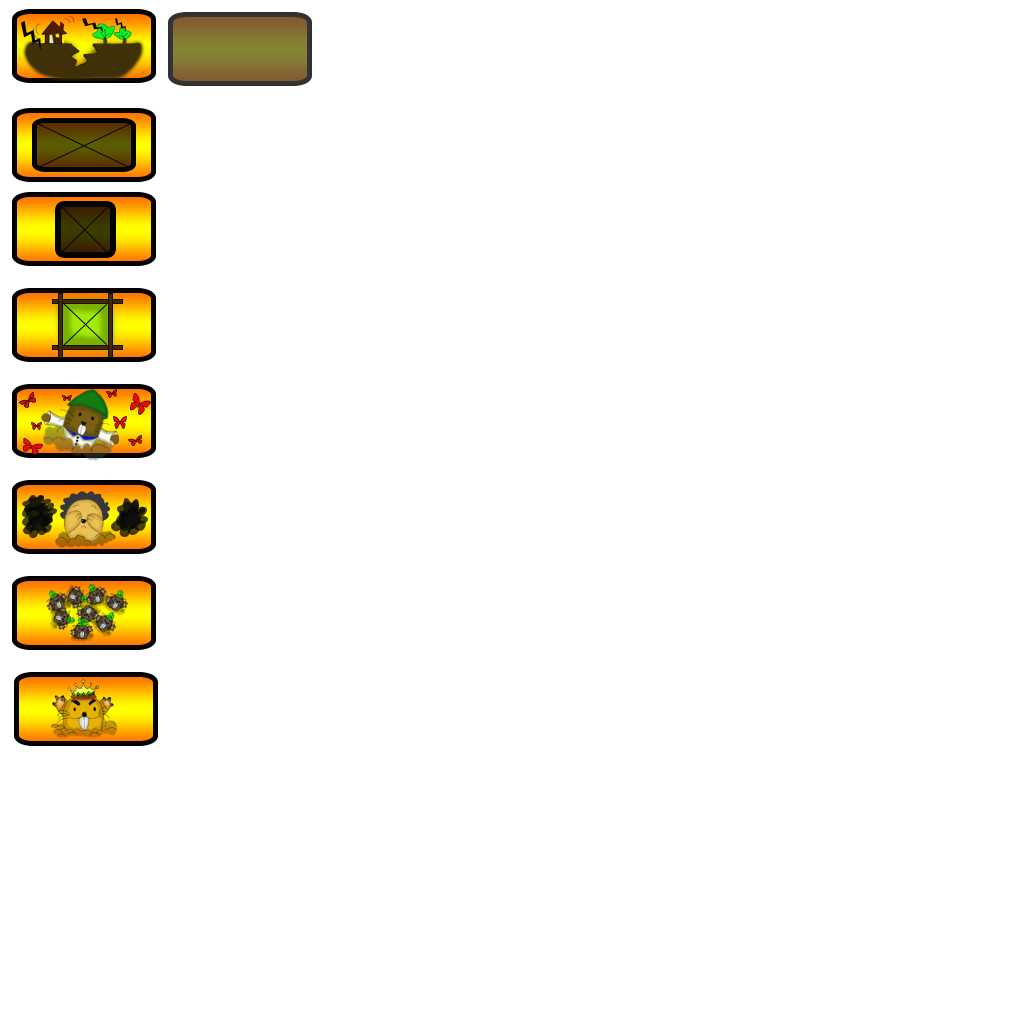
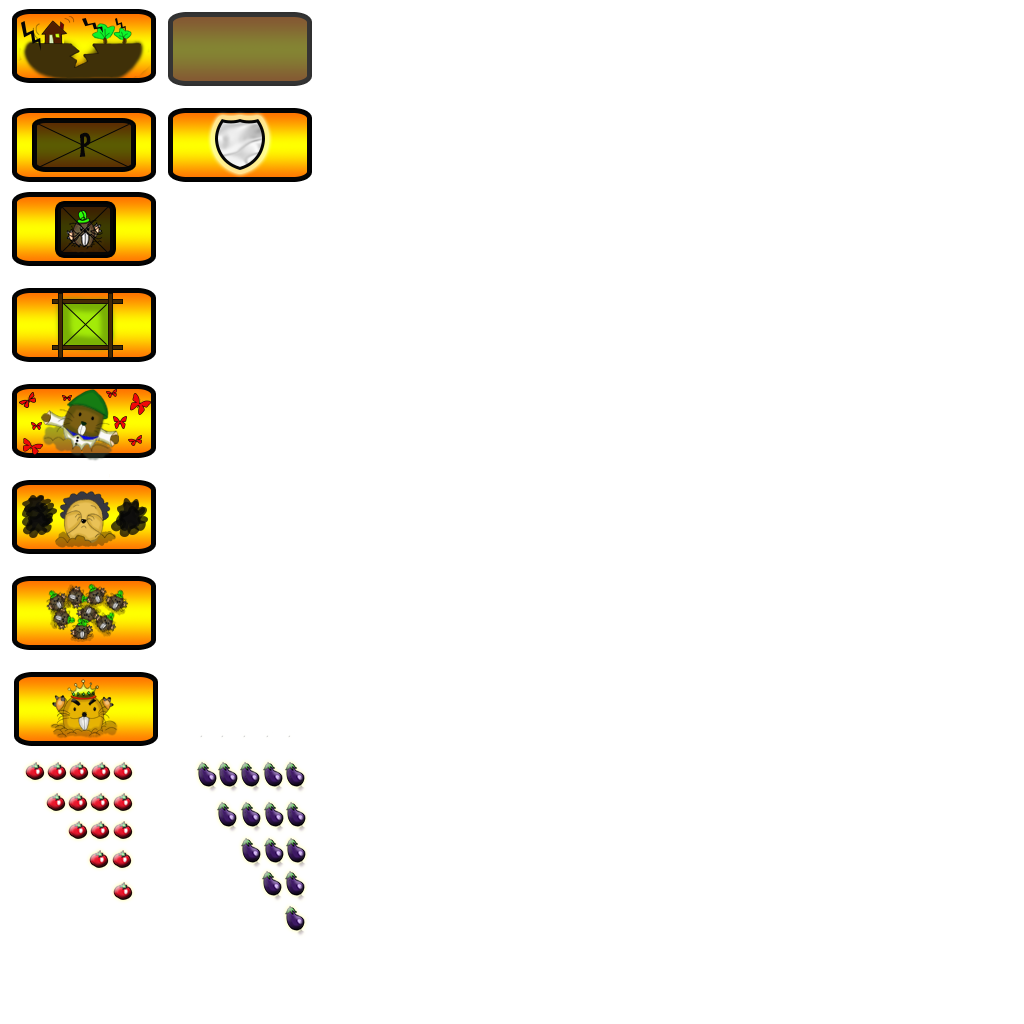
Added more graphics for PU effects
plus font and hp

diff --git a/MoleSayWhack/src/com/deny/GameWorld/GameRenderer.java b/MoleSayWhack/src/com/deny/GameWorld/GameRenderer.java
@@ -51,6 +51,43 @@ public class GameRenderer {
 
         batcher.draw(AssetLoader.gameBG, 0, 0, (int)(544*scaleW), (int)(816*scaleH));
         
+        // DRAW opponent hp
+       switch(world.getOpponentHP()){
+       case 1:
+    	   batcher.draw(AssetLoader.op1, (int)(10*scaleW), (int)(10*scaleH), (int)(30*scaleW), (int)(25*scaleH));
+    	   break;
+       case 2:
+    	   batcher.draw(AssetLoader.op2, (int)(10*scaleW), (int)(10*scaleH), (int)(47*scaleW), (int)(25*scaleH));
+    	   break;
+       case 3:
+    	   batcher.draw(AssetLoader.op3, (int)(10*scaleW), (int)(10*scaleH), (int)(72*scaleW), (int)(25*scaleH));
+    	   break;
+       case 4:
+    	   batcher.draw(AssetLoader.op4, (int)(10*scaleW), (int)(10*scaleH), (int)(98*scaleW), (int)(25*scaleH));
+    	   break;
+       case 5:
+    	   batcher.draw(AssetLoader.op5, (int)(10*scaleW), (int)(10*scaleH), (int)(112*scaleW), (int)(25*scaleH));
+    	   break;
+       }
+       //DRAW MYHP
+       switch(world.getPlayer().getHP()){
+       case 1:
+    	   batcher.draw(AssetLoader.mh1, (int)((544-123)*scaleW), (int)(10*scaleH), (int)(113*scaleW), (int)(20*scaleH));
+    	   break;
+       case 2:
+    	   batcher.draw(AssetLoader.mh2, (int)((544-123)*scaleW), (int)(10*scaleH), (int)(113*scaleW), (int)(20*scaleH));
+    	   break;
+       case 3:
+    	   batcher.draw(AssetLoader.mh3, (int)((544-123)*scaleW), (int)(10*scaleH), (int)(113*scaleW), (int)(20*scaleH));
+    	   break;
+       case 4:
+    	   batcher.draw(AssetLoader.mh4, (int)((544-123)*scaleW), (int)(10*scaleH), (int)(113*scaleW), (int)(20*scaleH));
+    	   break;
+       case 5:
+    	   batcher.draw(AssetLoader.mh5, (int)((544-123)*scaleW), (int)(10*scaleH), (int)(113*scaleW), (int)(20*scaleH));
+    	   break;
+
+       }
         // Draw MOLES
         for(Mole m : world.getMoleGrid()) {
         	if (m!= null) {
@@ -67,7 +104,21 @@ public class GameRenderer {
         		
         	}
         }
-
+        
+        //Draw POWERUPDEPLOYER
+        for (PowerUpDeployer pd: world.getPowerUpDeployers()) {
+        	if (pd!=null) {
+        		//shapeRenderer.setColor(pd.getPowerupType().getColor());
+        		Rectangle r = pd.getRectangle();
+        		if (pd.isAvailable()){
+        		batcher.draw(pd.getAsset(), r.x, r.y, r.width, r.height);}
+        		else{
+        			//cooldown
+        			batcher.draw(pd.getAsset(), r.x, r.y, r.width, r.height);
+        			batcher.draw(AssetLoader.cdown, r.x, r.y, r.width, r.height);
+        		}
+        	}
+        }
         
         batcher.end();
        
@@ -106,15 +157,7 @@ public class GameRenderer {
 	        	
 	        }
 
-        //Render PowerUps
-        shapeRenderer.begin(ShapeType.Filled);
-        for (PowerUpDeployer pd: world.getPowerUpDeployers()) {
-        	if (pd!=null) {
-        		shapeRenderer.setColor(pd.getPowerupType().getColor());
-        		shapeRenderer.rect(pd.getRectangle().x, pd.getRectangle().y,pd.getRectangle().width,pd.getRectangle().height);
-        	}
-        }
-        shapeRenderer.end();
+
 
         }
        

diff --git a/MoleSayWhack/src/com/deny/GameHelpers/AssetLoader.java b/MoleSayWhack/src/com/deny/GameHelpers/AssetLoader.java
@@ -14,21 +14,23 @@ import com.badlogic.gdx.Gdx;
 import com.badlogic.gdx.audio.Sound;
 import com.badlogic.gdx.graphics.Texture;
 import com.badlogic.gdx.graphics.Texture.TextureFilter;
+import com.badlogic.gdx.graphics.g2d.BitmapFont;
 import com.badlogic.gdx.graphics.g2d.TextureRegion;
 
 public class AssetLoader 
 {
 	//The Textures//
-
+	public static BitmapFont font;
 	public static Texture texture, logoTexture, win;
 	public static Texture Main1024, Game1024, moleDep1024, lose, PS, powerup, powerupDep2, powerupDep1;
 	public static TextureRegion powerless, earthquake, moleshower, silencer, molejam, kingmole, mouldy, dummymole, moleshield;
 	public static TextureRegion gameBG, ps, rpl, ext, rsm, psBG, borderVert, borderHor, hmr, titlepuDep;
 	public static TextureRegion background, strB, optB, hghB, Title, m1, m3, m5, sm,
 	enterIP, loading, cnl, mdm1, mdm3, mdm5, mdsm, titleDep, Lose, dplyOK, dplyCD, dplySEL;
-	public static TextureRegion eq, ms, ns, np, nc, sc, fog, km;
+	public static TextureRegion eq, ms, ns, np, nc, sc, fog, km, inv, cdown;
 	public static TextureRegion logo, mswlogo, startButtonUp, startButtonDown, winTextR;
-
+	
+	public static TextureRegion mh1, mh2, mh3, mh4, mh5, op1, op2, op3, op4, op5;
 	public static TextureRegion bg, Hm, title, startButt, optButt, scoreButt, 
 		mole1, mole3, mole5, moleSabo, pause, play, cancel, replay, ipButt;
 	
@@ -40,6 +42,9 @@ public class AssetLoader
 	
 	public static void load()
 	{
+		font = new BitmapFont(Gdx.files.internal("data/font.fnt"));
+		font.setScale(1f, -1f);
+		
 		powerupDep1 = new Texture(Gdx.files.internal("data/powerdep1.png"));
 		powerupDep1.setFilter(TextureFilter.Nearest, TextureFilter.Nearest);
 		
@@ -103,7 +108,41 @@ public class AssetLoader
 		sc = new TextureRegion(powerup, 11, 383, 147, 76);
 		sc.flip(false, true);
 		
+		inv = new TextureRegion(powerup, 167,108, 147, 76);
+		inv.flip(false,true);
 		
+		mh1 = new TextureRegion(powerup, 23,882, 113,20);
+		mh1.flip(false,true);
+		
+		mh2 = new TextureRegion(powerup, 23, 850, 113, 20);
+		mh2.flip(false, true);
+		
+		mh3 = new TextureRegion(powerup, 23, 821, 113, 20);
+		mh3.flip(false,true);
+		
+		mh4 = new TextureRegion(powerup, 23, 794, 113, 20);
+		mh4.flip(false,true);
+		
+		mh5 = new TextureRegion(powerup, 23, 762, 113, 20);
+		mh5.flip(false,true);
+		
+		op1 = new TextureRegion(powerup, 279,906, 30, 25);
+		op1. flip(false,true);
+		
+		op2 = new TextureRegion(powerup, 259, 875, 47, 25);
+		op2.flip(false,true);
+		
+		op3 = new TextureRegion(powerup, 237, 837, 72, 25);
+		op3.flip(false,true);
+		
+		op4 = new TextureRegion(powerup, 214, 801, 98, 25);
+		op4.flip(false,true);
+		
+		op5 = new TextureRegion(powerup, 195, 761, 112, 25);
+		op5.flip(false,true);
+		
+		cdown = new TextureRegion(powerup, 168, 12, 146, 75);
+		cdown.flip(false,true);
 		PS = new Texture(Gdx.files.internal("data/pause.png"));
 		PS.setFilter(TextureFilter.Nearest, TextureFilter.Nearest);
 		

diff --git a/MoleSayWhack/src/com/deny/GameWorld/GameWorld.java b/MoleSayWhack/src/com/deny/GameWorld/GameWorld.java
@@ -47,6 +47,7 @@ public class GameWorld {
 	private final static int NUMBER_OF_MOLE_DEPLOYERS = 3;
 	private final static int NUMBER_OF_POWERUP_DEPLOYERS = 3;
 	private static final float DELAY_BETWEEN_MOLE_APPEARANCE = 1f;
+	private static final int STARTING_HP_FOR_PLAYER = 5;
 	
 	private Game game;
 	private GameScreen gameScreen;
@@ -106,7 +107,8 @@ public class GameWorld {
 		this.socketHandler = sH;
 		this.readThread = socketHandler.getReadThread();
 		this.readThread.setGameWorld(this);
-		this.player = new Player(5,this);
+		this.player = new Player(STARTING_HP_FOR_PLAYER,this);
+		this.opponentHP = STARTING_HP_FOR_PLAYER;
 		this.selectedMoles = selectedMoles;
 		this.selectedPowerUps = selectedPowerUps;
 		
@@ -146,14 +148,14 @@ public class GameWorld {
 		for (int i =0; i<NUMBER_OF_MOLE_DEPLOYERS;i++) {
 			//change here
 			moleDeployers[i] = new MoleDeployer(this, selectedMoles.get(i));
-			moleDeployers[i].getRectangle().set((int)(GAME_WIDTH/2-(340*scaleW/2)+(i*120*scaleW)),(int)(560*scaleH),(int)(100*scaleW),(int)(100*scaleH));
+			moleDeployers[i].getRectangle().set((int)(GAME_WIDTH/2-(340*scaleW/2)+(i*120*scaleW)),(int)(565*scaleH),(int)(100*scaleW),(int)(100*scaleH));
 		}
 		
 		//Setup Powerup Deployers
 		powerUpDeployers = new PowerUpDeployer[NUMBER_OF_POWERUP_DEPLOYERS];
 		for (int i =0; i<NUMBER_OF_POWERUP_DEPLOYERS;i++) {
 			powerUpDeployers[i] = new PowerUpDeployer(this, selectedPowerUps.get(i));
-			powerUpDeployers[i].getRectangle().set((float)(i*136/3.0), 166f, 45.33f, 20f);
+			powerUpDeployers[i].getRectangle().set((int)(GAME_WIDTH/2-(475*scaleW/2)+(i*165*scaleW)),(int)(670*scaleH),(int)(145*scaleW),(int)(75*scaleH));
 		}
 		
 		//setup board and overlay
@@ -195,7 +197,7 @@ public class GameWorld {
 		
 	}
 
-
+	
     public void update(float delta) {    	
     	switch(gameState) {
     	case READY:
@@ -223,10 +225,6 @@ public class GameWorld {
 			break;
 		case POWERUP:
 			break;
-		case RESTART:
-    		game.setScreen(new PreGameScreen(game, socketHandler));
-    		gameScreen.dispose();
-    		break;
 		case WIN:
 			break;
 		default:
@@ -278,6 +276,15 @@ public class GameWorld {
         for (int i =0; i<NUMBER_OF_MOLE_DEPLOYERS;i++) {
 			moleDeployers[i].update(delta);
 		}
+        
+        BlockMoleGrid.update(delta);
+		DisableAllPowerUps.update(delta);
+		DisableOneMoleDeployer.update(delta);
+		EnableFog.update(delta);
+		GenerateDummyMoles.update(delta);
+		Invulnerability.update(delta);
+		SpawnMoleKing.update(delta);
+		MoleShower.update(delta);
     }
 	
 	public void updateRestart() {

diff --git a/MoleSayWhack/src/com/deny/GameObjects/PowerupDeployer.java b/MoleSayWhack/src/com/deny/GameObjects/PowerupDeployer.java
@@ -1,7 +1,10 @@
 package com.deny.GameObjects;
 
+import com.badlogic.gdx.graphics.g2d.TextureRegion;
 import com.badlogic.gdx.math.Rectangle;
+import com.deny.GameHelpers.AssetLoader;
 import com.deny.GameWorld.GameWorld;
+import com.deny.PowerUpObjects.PowerUp;
 import com.deny.Threads.ServerClientThread;
 //Deploys powerups
 //initialized at the beginning of the game
@@ -15,6 +18,7 @@ public class PowerUpDeployer {
 	private Rectangle boundingRectangle;
 	private boolean isAvailable;
 	private boolean disabled;
+
 	
 	private ServerClientThread socketHandler;
 	
@@ -25,6 +29,8 @@ public class PowerUpDeployer {
 		this.coolDown = powerupType.getCoolDown();
 		boundingRectangle = new Rectangle();
 		timeDeployed = 0;
+		isAvailable = true;
+		disabled = false;
 	}
 	
 	
@@ -39,6 +45,7 @@ public class PowerUpDeployer {
 		}
 	}
 	
+
 	public boolean isAvailable() {
 		return isAvailable;
 	}
@@ -46,7 +53,41 @@ public class PowerUpDeployer {
 	public PowerUpType getPowerupType(){
 		return powerupType;
 	}
+	public TextureRegion getAsset(){
+		switch (powerupType){
+		case BLOCKGRID:
+			return AssetLoader.ns;
+		
+		case DISABLEALLPOWERUPS:
+			return AssetLoader.np;
+			
+		case DISABLEONEMOLEDEPLOYER:
+			return AssetLoader.nc;
+			
+		case DUMMY:
+			return AssetLoader.sc;
+			
+		case EARTHQUAKE:
+			return AssetLoader.eq;
+			
+		case FOG:
+			return AssetLoader.fog;
+			
+		case INVULNERABILITY:
 	
+			return AssetLoader.inv;
+		
+		case MOLEKING:
+			return AssetLoader.km;
+			
+		case MOLESHOWER:
+			return AssetLoader.ms;
+			
+		default:
+			return AssetLoader.eq;
+		
+		}
+	}
 	public void deploy(){
 		//send message or change gameworld variables
 		isAvailable = false;

diff --git a/MoleSayWhack/src/com/deny/GameHelpers/GameInputHandler.java b/MoleSayWhack/src/com/deny/GameHelpers/GameInputHandler.java
@@ -53,6 +53,7 @@ public class GameInputHandler implements InputProcessor {
 		if (currentState == GameState.DEPLOYMENT) {
 			for (int i=0; i<placeHolders.size(); i++) { 
 				if (placeHolders.get(i).contains(screenX, screenY)) {
+					
 					AssetLoader.sent.play();
 					myWorld.getCurrentMoleDeployer().deployMole(i);
 					myWorld.setCurrentMoleDeployer(null);
@@ -88,9 +89,10 @@ public class GameInputHandler implements InputProcessor {
 			
 			for (MoleDeployer md: myWorld.getMoleDeployers()) {
 				if (md!= null) {
+					md.setSelected(false);
 					if (md.isTouchDown(screenX,screenY)) {
-						md.triggerSelected();
 						if (md.isAvailable() && !md.isDisabled()) {
+							md.setSelected(true);
 							AssetLoader.slctd.play();
 							myWorld.setGameState(GameState.DEPLOYMENT);
 							myWorld.setCurrentMoleDeployer(md);
@@ -101,6 +103,7 @@ public class GameInputHandler implements InputProcessor {
 			
 			for (PowerUpDeployer pd: myWorld.getPowerUpDeployers()) {
 				if (pd!= null) {
+
 					if (pd.isTouchDown(screenX,screenY) && pd.isAvailable()) {
 						pd.deploy();
 					}

diff --git a/MoleSayWhack/src/com/deny/Threads/ServerClientThread.java b/MoleSayWhack/src/com/deny/Threads/ServerClientThread.java
@@ -173,13 +173,13 @@ public class ServerClientThread extends Thread {
 	
 	public void sendPowerUp(PowerUpType powerUpType) {
 		System.out.println("[SocketHandler] PowerUp Deployed! Sending " + "[SPAWN] " + powerUpType.toString());
-		out.write(("[POWERUP] " + powerUpType.toString()));
+		out.write(("[POWERUP] " + powerUpType.toString()+"\n"));
 		out.flush();
 	}
 	
 	public void sendHPMessage(int hp) {
 		System.out.println("[SocketHandler] Opponent got hit! Sending " + "[OPPONENTHP] " + hp);
-		out.write(("[OPPONENTHP] " + hp));
+		out.write(("[OPPONENTHP] " + hp+"\n"));
 		out.flush();
 	}
 

diff --git a/MoleSayWhack/src/com/deny/Screens/PreGamePowerUpScreen.java b/MoleSayWhack/src/com/deny/Screens/PreGamePowerUpScreen.java
@@ -96,7 +96,7 @@ public class PreGamePowerUpScreen implements Screen {
 //    	   batcher.draw(powerupType.getAsset(),r.x, r.y, r.width, r.height);
 //    	}     
         
-        font.draw(batcher, String.valueOf((int)countDownTime), 68*2, 20*2);
+        AssetLoader.font.draw(batcher, String.valueOf((int)countDownTime), GAME_WIDTH/2 - 8, 15);
         batcher.draw(AssetLoader.cnl, backBounds.x, backBounds.y,
         		backBounds.width, backBounds.height);
         batcher.end();

diff --git a/MoleSayWhack/src/com/deny/Screens/PreGameScreen.java b/MoleSayWhack/src/com/deny/Screens/PreGameScreen.java
@@ -97,7 +97,7 @@ public class PreGameScreen implements Screen {
         
         
         
-        font.draw(batcher, String.valueOf((int)countDownTime), 68*2, 20*2);
+        AssetLoader.font.draw(batcher, String.valueOf((int)countDownTime), GAME_WIDTH/2 - 8, 15);
         batcher.draw(AssetLoader.cnl, backBounds.x, backBounds.y,
 
         		backBounds.width, backBounds.height);

diff --git a/MoleSayWhack/src/com/deny/Screens/MultiplayerScreen.java b/MoleSayWhack/src/com/deny/Screens/MultiplayerScreen.java
@@ -251,8 +251,8 @@ public class MultiplayerScreen implements Screen {
         batcher.draw(AssetLoader.cnl, backBounds.x, backBounds.y,
 
         		backBounds.width, backBounds.height);
-
-        font.draw(batcher, myAddress.toString(), 0, 20);
+       
+        AssetLoader.font.draw(batcher, myAddress.toString(), 20, 20);
        
 	    batcher.end();
 	}

diff --git a/MoleSayWhack/src/com/deny/GameObjects/Player.java b/MoleSayWhack/src/com/deny/GameObjects/Player.java
@@ -15,6 +15,9 @@ public class Player {
 		this.isDead = false;
 	}
 	
+	public int getHP(){
+		return HP;
+	}
 	public void damage() {
 		if (isAlive()) {
 			HP -= 1;
